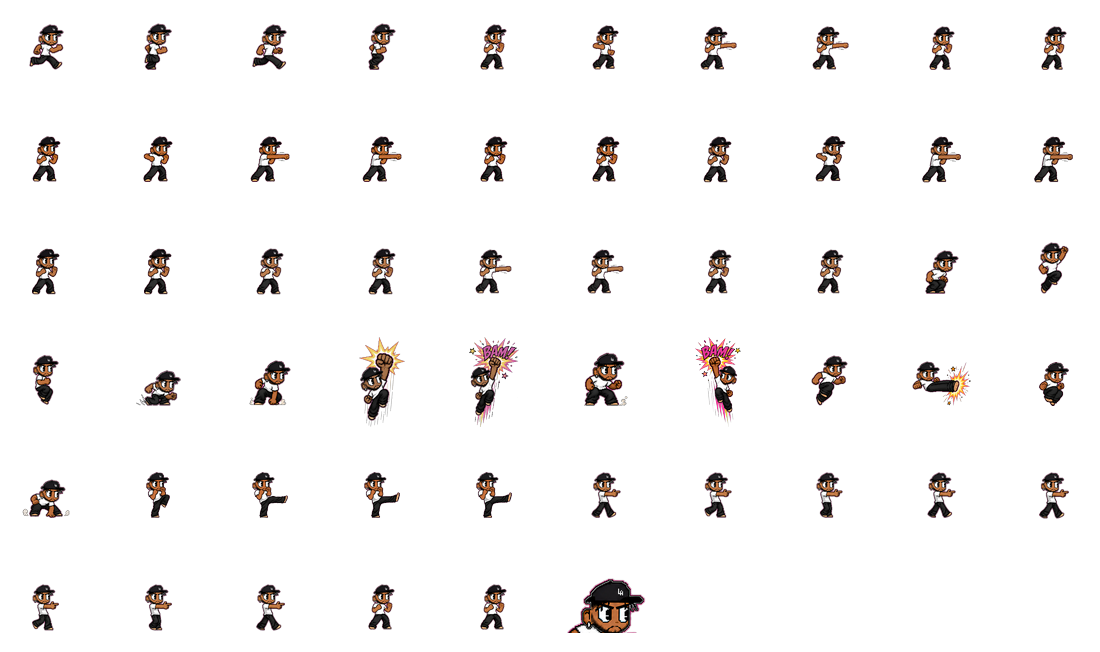
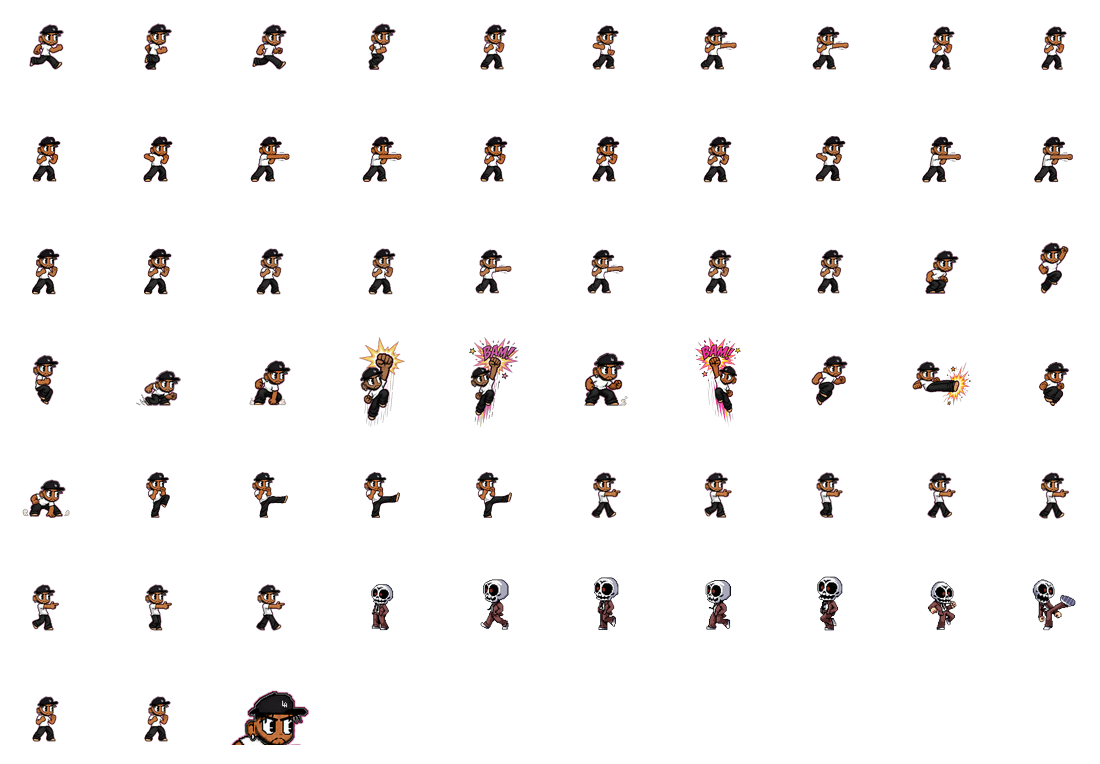
Real Corrupt Politician art: the skull ghost in a suit replaces its placeholder
10 provided frames (screenshots) keyed free of their flat background into
art/Politician/: idle, 4-frame walk cycle, fist-up windup, front kick, plus
walk_alt/charge/kick2 spares left unpacked. Walk/idle were drawn west-facing
and are mirrored east on disk to match the atlas convention.

pack.py packs pol.idle/pol.walk.0-3/pol.atk.0-1 (scaled against the idle
frame). drawVamp draws the sprite path for type 'politician' — walk cycle by
e.anim, windup->kick mapped to the atk state's real hit windows (st<17 windup,
17-29 active), idle for stun/recover — with the engine's existing flash tint,
elite scale/glow, recoil lean and launch spin all applying to the sprite.
Guards/mascots/robocops keep the placeholder until their art lands.

Claude-Session: https://claude.ai/code/session_01M5BJppshA7qdR7V8NpDjvD

diff --git a/src/game.html b/src/game.html
@@ -2903,7 +2903,14 @@ function drawVamp(e){ const sx=e.x-camX;
   const pal = ENEMY_PAL[e.type]||ENEMY_PAL.guard;
   const body = dark?'#241a38':pal.body;
   const skin = dark?'#3a2a52':pal.skin;
-  drawFoePlaceholder(sx+rx, e.z-e.y-hover, f, e.sc||1, body, skin, e.anim, e.state==='atk', et, ea, dark?null:e.type);
+  if(e.type==='politician' && IDX['pol.idle.0']){
+    // real drawn art (skull ghost in a suit) — the other types keep the placeholder until theirs lands
+    let key='pol.idle.0';
+    if(e.state==='walk'||e.state==='enter') key='pol.walk.'+(Math.floor(e.anim*1.2)%4);
+    else if(e.state==='atk') key= e.st<17?'pol.atk.0' : e.st<30?'pol.atk.1' : 'pol.idle.0';   // fist-up windup -> kick through the active window -> recover
+    spr(key, sx+rx, e.z-e.y-hover, e.face, et, ea, e.sc||1);
+  }
+  else drawFoePlaceholder(sx+rx, e.z-e.y-hover, f, e.sc||1, body, skin, e.anim, e.state==='atk', et, ea, dark?null:e.type);
   if(rlean) ctx.restore();
   if(spin) ctx.restore();
   ctx.globalAlpha=1;

diff --git a/src/pack.py b/src/pack.py
@@ -147,6 +147,15 @@ pack_frames("hero.kickstand", "BamBamKickStand", ["frame1.png","frame2.png","fra
 pack_frames("hero.swag", "BamBamSwag",     ["frame0.png","frame1.png","frame2.png","frame3.png"])
 pack_frames("hero.shoot","BamBamShoot",    ["frame0.png","frame1.png","frame2.png","frame3.png"])  # finger-gun point-and-step cycle, used for punch while FIGHT/SHOOT is in SHOOT mode
 
+# --- Corrupt Politician: first real enemy art (skull ghost in a brown suit) ---------------
+# 10 screenshots keyed free of their flat background; walk/idle were drawn west-facing and are
+# mirrored east on disk so the whole set matches the atlas convention (spr() flips east->west).
+# walk_alt/charge/kick2 stay on disk unpacked as spares.
+POL="Politician"
+pack_one("pol.idle.0", POL, "idle.png", reframe_solo(os.path.join(ROOT,POL,"idle.png")))
+pack_frames("pol.walk", POL, ["walk0.png","walk1.png","walk2.png","walk3.png"], ref_file="idle.png")
+pack_frames("pol.atk",  POL, ["windup.png","kick.png"], ref_file="idle.png")   # fist-up windup -> front kick (matches the vamp atk windows: st<17 windup, 17-29 active)
+
 HB=os.path.join(ROOT,"BamBamPunch","frame0.png")   # idle stance doubles as both facings
 _hero_cell=reframe_solo(HB)
 for key in ("hero.rot.south","hero.rot.east"):